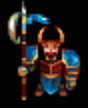
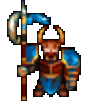
Convert sprites to have transparent backgrounds

diff --git a/pythongame/game_data.py b/pythongame/game_data.py
@@ -10,8 +10,8 @@ ENEMY_2_ENTITY_SIZE = (60, 60)
 ENEMY_MAGE_ENTITY_SIZE = (60, 60)
 ENEMY_BERSERKER_SIZE = (50, 50)
 ATTACK_PROJECTILE_SIZE = (25, 25)
-MAGIC_MISSILE_PROJECTILE_SIZE = (20, 20)
-ENEMY_PROJECTILE_SIZE = (35, 35)
+MAGIC_MISSILE_PROJECTILE_SIZE = (30, 30)
+ENEMY_PROJECTILE_SIZE = (50, 50)
 AOE_PROJECTILE_SIZE = (110, 110)
 POTION_ENTITY_SIZE = (30, 30)
 
